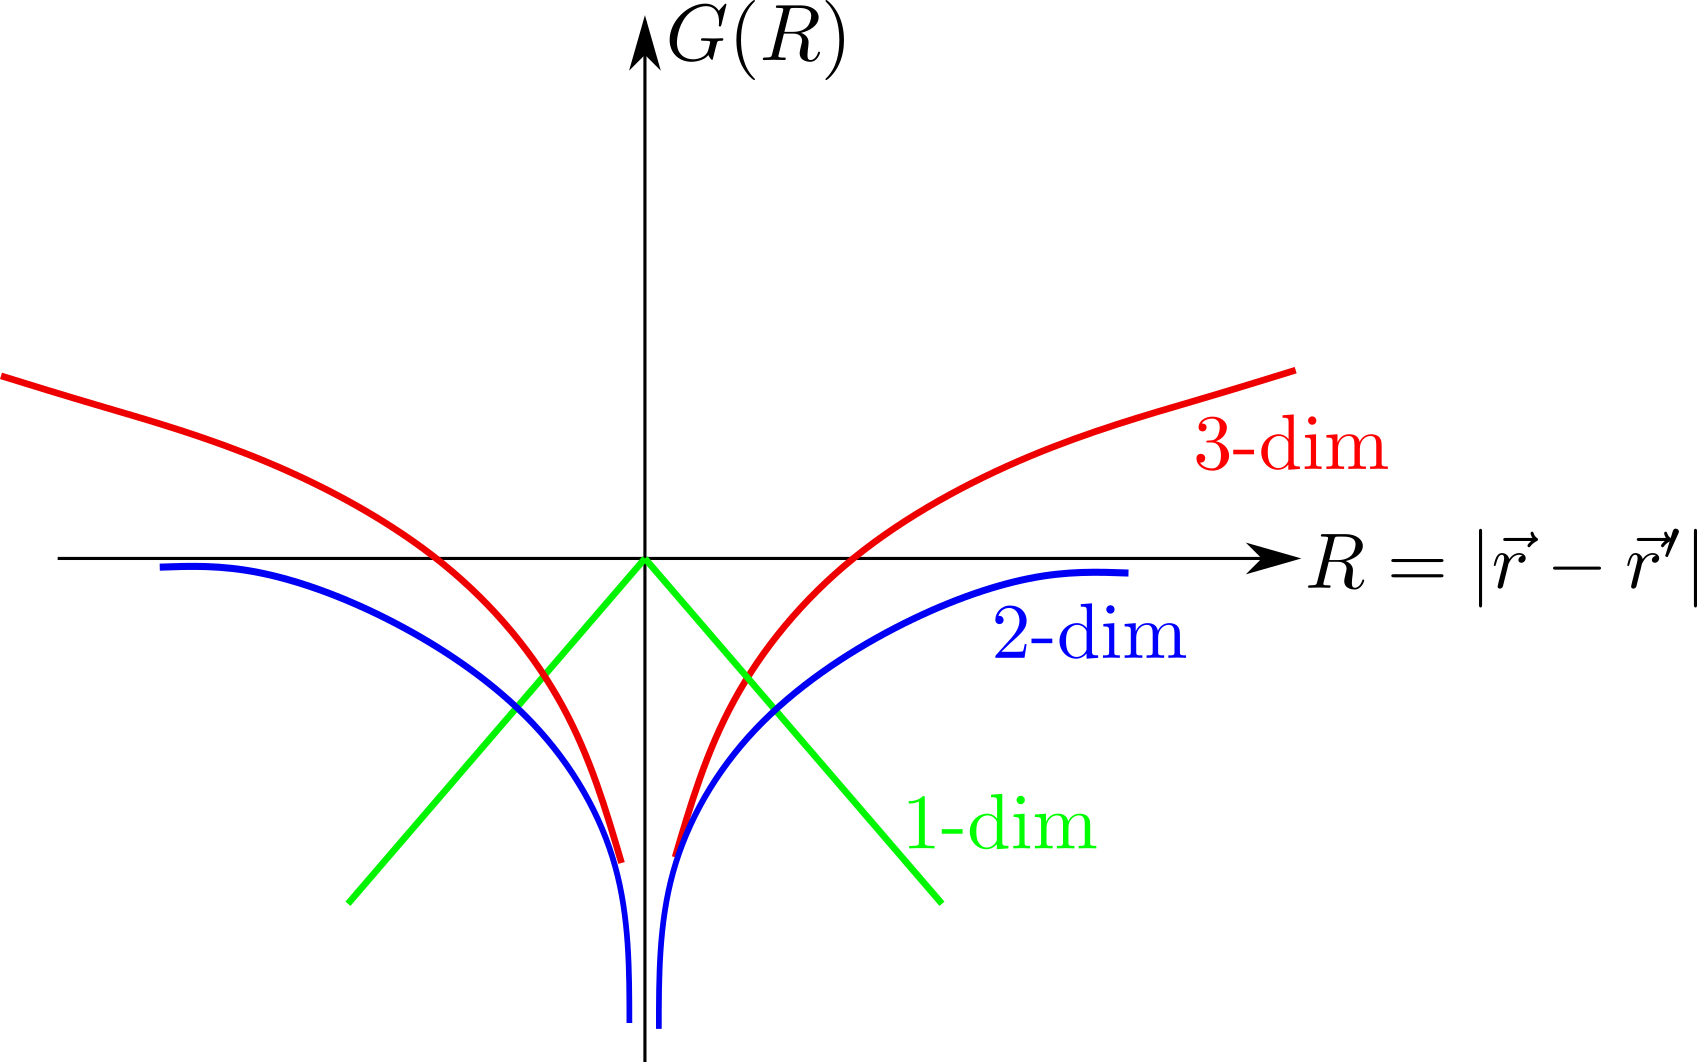
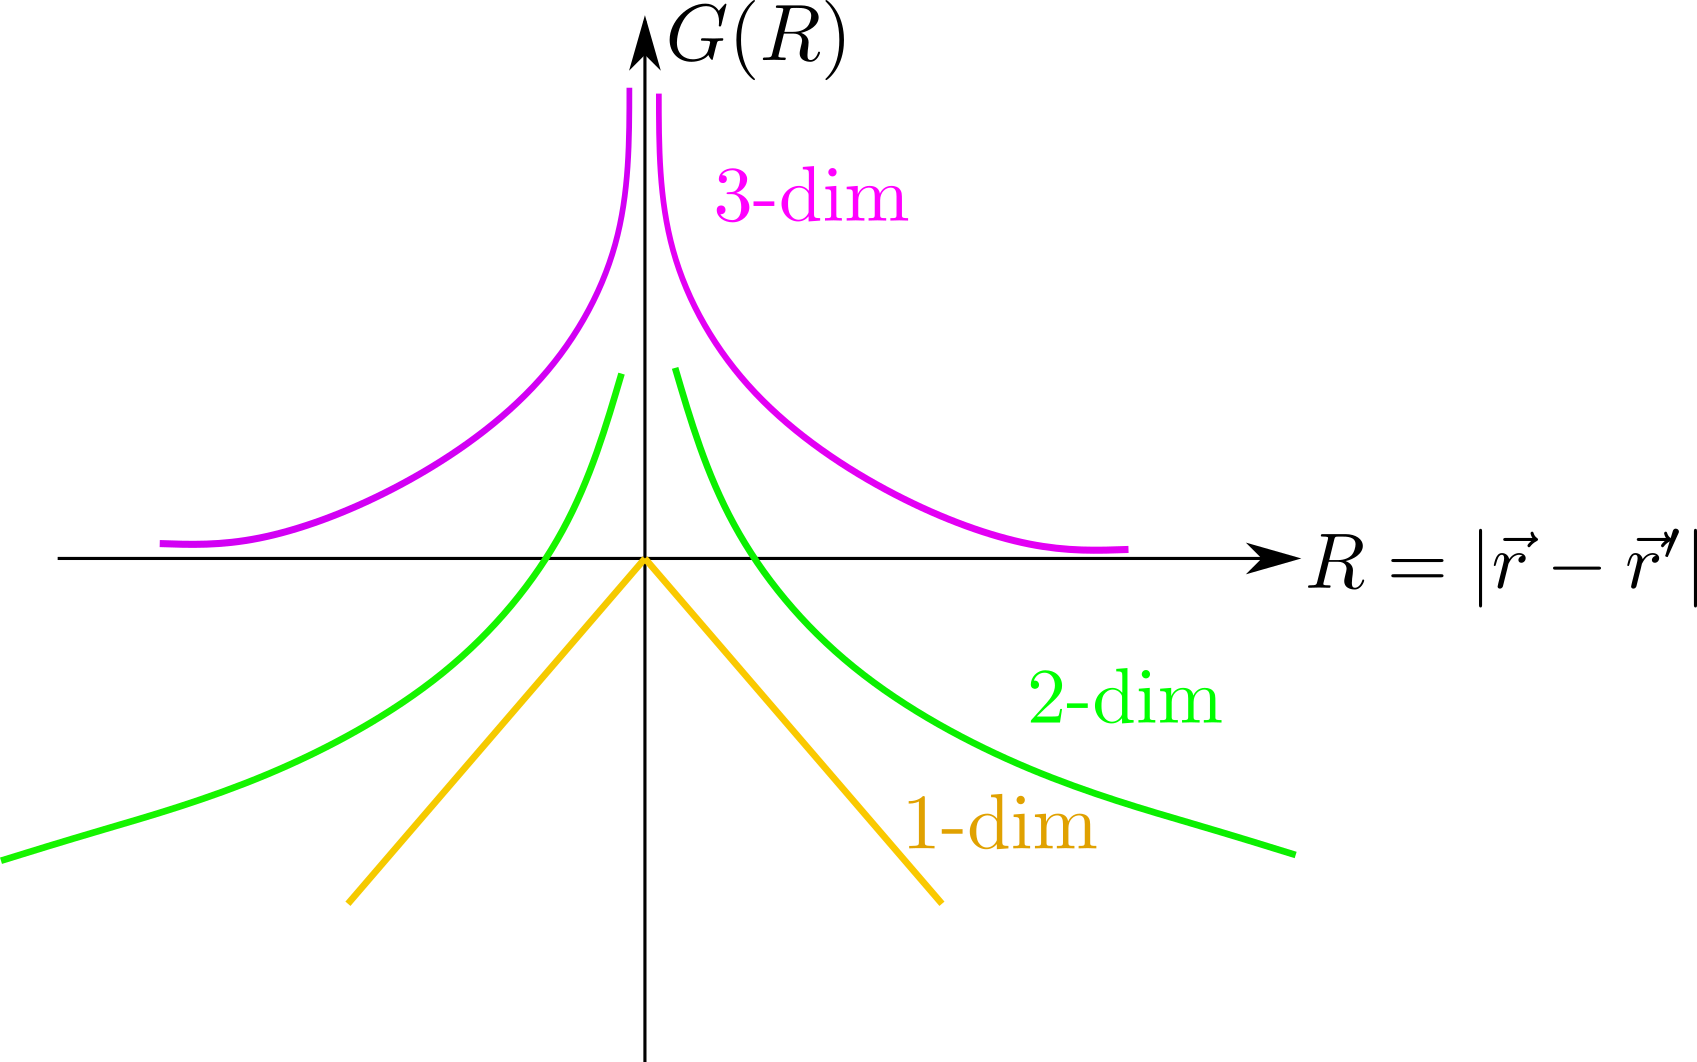
added chapters on ising-dbnet and renormalization group

diff --git a/green-fun-pde/g-fun-laplace-continuous-dim.py b/green-fun-pde/g-fun-laplace-continuous-dim.py
@@ -1,0 +1,57 @@
+import numpy as np
+import matplotlib.pyplot as plt
+from math import gamma, pi
+
+def plot_laplacian_greens_fun():
+    """
+    This function plots the Green's function G(R) for minus the Laplacian for
+    various dimensions d including some fractional ones
+
+    -nabla^d G(R) = delta^d(R)
+
+    Returns
+    -------
+    None
+
+    """
+    def G_fun(R, d):
+        if abs(d - 2.0) < 1e-8:
+            return (1/(2*pi)) * np.log(R)
+        else:
+            prefactor = gamma(d/2) / (2*(d-2)*(pi**(d/2)))
+            return prefactor * R**(2-d)
+
+    # R range (avoid R=0)
+    R = np.linspace(0, 1,500)
+
+    # dimensions to plot
+    dims = [0.5, 1.0, 1.7, 2.3, 3.0]
+
+    plt.figure()
+
+    for d in dims:
+        G_vals = G_fun(R, d)
+        plt.plot(R, G_vals, label=f"d = {d}")
+
+    # draw axes in black
+    plt.axhline(0, color='black', linewidth=1)
+    plt.axvline(0, color='black', linewidth=1)
+
+    # labels and title
+    plt.xlabel("R")
+    plt.ylabel("G(R)")
+    plt.title("Free-space Green's Function of Laplacian in Continuous Dimensions")
+
+    # set y-axis limits
+    plt.ylim(-1, 1)
+
+    plt.legend()
+    plt.grid(True)
+
+    plt.show()
+
+if __name__ == "__main__":
+    def main():
+        plot_laplacian_greens_fun()
+
+    main()

diff --git a/green-fun-pde/green-fun-pde.tex b/green-fun-pde/green-fun-pde.tex
@@ -2093,8 +2093,8 @@ B= \frac{a_1}{a_0 x' +a_1}
 Free space Geeen's function
 
 \beq
-\nabla^2G(\vecr, \vecrp)=
-\delta(\vecr, \vecrp)
+-\nabla^dG(\vecr, \vecrp)=
+\delta^d(\vecr, \vecrp)
 \eeq
 
 1-dim
@@ -2103,23 +2103,45 @@ G^+(x, x')= -\;\frac{1}{2}|x-x'| = g_0(x-x')
 \eeq
 2-dim
 \beq
-G^+(\vecr,\vecrp)= +\;\frac{1}{2\pi}\ln |\vecr
+G^+(\vecr,\vecrp)= -\;\frac{1}{2\pi}\ln |\vecr
 -\vecrp| = g_0(\vecr-\vecrp)
 \eeq
 3-dim
 \beq
-G^+(\vecr,\vecrp)= -\;\frac{1}{4\pi |\vecr
+G^+(\vecr,\vecrp)= \;\frac{1}{4\pi |\vecr
 -\vecrp|} = g_0(\vecr-\vecrp)
 \eeq
 
 \begin{figure}[h!]
 \centering
-\includegraphics[width=3in]
+\includegraphics[draft=false, width=3in]
 {green-fun-pde/green-fun-123dim.png}
-\caption{Green's functions $G$ as a function of $R=|\vecr-\vecrp|$
-in 1, 2 and 3 dimensions.
+\caption{Free space Green's functions $G$ for minus Laplacian as a function of $R=|\vecr-\vecrp|$
+for integral dimensions.
  }
 \label{fig-green-fun-123dim}
 \end{figure}
+
+
+\begin{figure}[h!]
+\centering
+\includegraphics[draft=false, width=5in]
+{green-fun-pde/greens-fun-laplacian-continuous-dim.png}
+\caption{Free space Green's functions $G$ for minus Laplacian as a function of $R=|\vecr-\vecrp|$
+in various dimensions, including fractional ones.
+ }
+\label{fig-green-fun-123dim}
+\end{figure}
+
+\beq
+G(R)=
+\frac{1}{(d-2)S_d}
+\frac{1}{R^{d-2}}
+\eeq
+
+\beq S_d= \frac{2\pi^{d/2}}
+{\Gamma(d/2)}
+\eeq
+
 
 